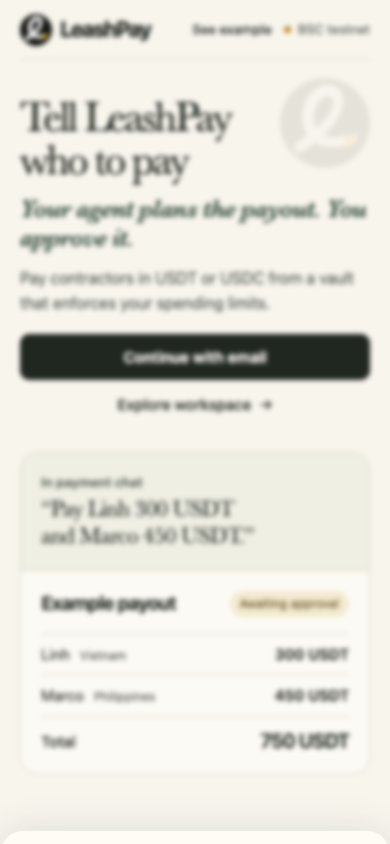
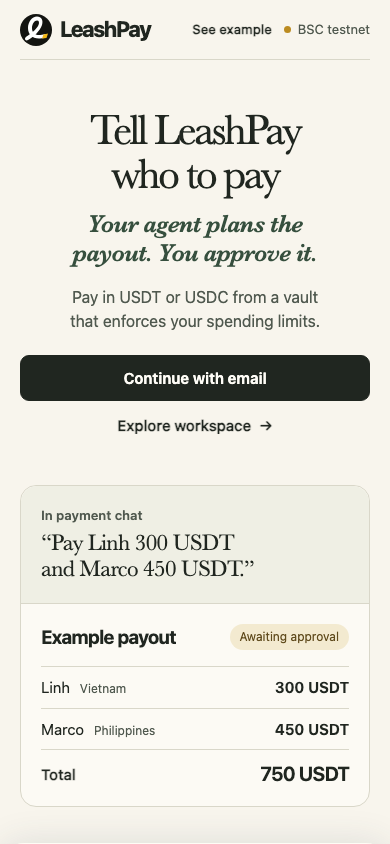
Center the landing hero and simplify the stablecoin payment copy

diff --git a/web/app/Welcome.module.css b/web/app/Welcome.module.css
@@ -21,21 +21,20 @@
 .network::before { content: ""; width: 7px; height: 7px; background: #bb8b20; border-radius: 50%; }
 
 .hero {
-  display: grid;
-  grid-template-columns: minmax(0, 1.12fr) minmax(0, .88fr);
-  align-items: center;
-  gap: clamp(20px, 3.8vw, 52px);
-  padding-block: clamp(48px, 6vw, 85px);
+  text-align: center;
+  padding-block: clamp(56px, 6.2vw, 86px) clamp(48px, 5.3vw, 72px);
 }
+.intro { max-width: 1050px; margin-inline: auto; }
 .intro h1 {
   margin: 0;
-  font: 500 clamp(46px, 5.7vw, 80px)/1.01 var(--serif);
+  font: 500 clamp(52px, 6.4vw, 86px)/1.025 var(--serif);
   letter-spacing: -.054em;
   text-wrap: balance;
 }
 .phrases {
   display: grid;
-  margin-top: 12px;
+  margin-top: 14px;
+  text-wrap: balance;
   min-width: 0;
   color: var(--green);
   font: italic 600 clamp(25px, 2.5vw, 36px)/1.15 var(--serif);
@@ -47,8 +46,8 @@
 @media (prefers-reduced-motion: reduce) {
   .phrases span { grid-area: auto; opacity: 1; transition: none; }
 }
-.intro p { max-width: 440px; margin: 20px 0 26px; color: var(--muted); font-size: clamp(16px, 1.4vw, 18px); line-height: 1.55; }
-.actions { flex-wrap: wrap; gap: 4px 22px; }
+.intro p { max-width: 49ch; margin: 20px auto 25px; color: var(--muted); font-size: clamp(16px, 1.4vw, 18px); line-height: 1.55; text-wrap: balance; }
+.actions { flex-wrap: wrap; justify-content: center; gap: 4px 22px; }
 .actions a, .signIn { font-size: 15px; }
 .actions a { gap: 8px; justify-content: center; }
 .signIn {
@@ -63,17 +62,11 @@
 }
 .signIn:hover:enabled { background: var(--green); }
 .signIn:disabled { opacity: .65; cursor: wait; }
-.watermark {
-  display: block;
-  width: clamp(144px, 20vw, 256px);
-  height: auto;
-  justify-self: center;
-  opacity: .12;
-  pointer-events: none;
-}
 
 .example {
   display: grid;
+  max-width: 960px;
+  margin-inline: auto;
   grid-template-columns: 1fr 1fr;
   border: 1px solid var(--line);
   border-radius: 16px;
@@ -109,10 +102,9 @@
   .page { padding: 0 max(20px, env(safe-area-inset-right)) 28px max(20px, env(safe-area-inset-left)); }
   .header { min-height: 60px; }
   .layout { max-width: 480px; }
-  .hero { position: relative; isolation: isolate; grid-template-columns: 1fr; padding-block: 36px 26px; }
-  .intro h1 { font-size: clamp(43px, 9.4vw, 57px); }
-  .intro p { margin: 14px 0 18px; }
-  .watermark { position: absolute; z-index: -1; top: 18px; right: 0; width: clamp(76px, 23vw, 110px); opacity: .08; }
+  .hero { padding-block: 48px 38px; }
+  .intro h1 { font-size: clamp(43px, 10.7vw, 57px); }
+  .intro p { margin: 17px auto 21px; }
   .example { grid-template-columns: 1fr; }
   .request { border-radius: 16px 16px 0 0; }
   .request blockquote { font-size: 23px; margin-top: 4px; }

diff --git a/web/app/page.tsx b/web/app/page.tsx
@@ -1,7 +1,6 @@
 "use client";
 
 import { usePrivy } from "@privy-io/react-auth";
-import Image from "next/image";
 import Link from "next/link";
 import { useEffect, useState } from "react";
 import { Brand } from "@/components/Brand";
@@ -56,7 +55,7 @@ export default function Home() {
           <div className={styles.intro}>
             <h1 id="welcome-title">Tell LeashPay who to pay</h1>
             <PayoutTagline />
-            <p>Pay contractors in USDT or USDC from a vault that enforces your spending limits.</p>
+            <p>Pay in USDT or USDC from a vault that enforces your spending limits.</p>
             <div className={styles.actions}>
               <button className={styles.signIn} type="button" disabled={!ready} onClick={() => login()}>
                 Continue with email
@@ -64,7 +63,6 @@ export default function Home() {
               <Link href="/workspace">Explore workspace <span aria-hidden="true">→</span></Link>
             </div>
           </div>
-          <Image className={styles.watermark} src="/icon.svg" alt="" width={256} height={256} />
         </section>
         <section className={styles.example} id="example-payout" aria-labelledby="example-title" tabIndex={-1}>
           <figure className={styles.request}>
